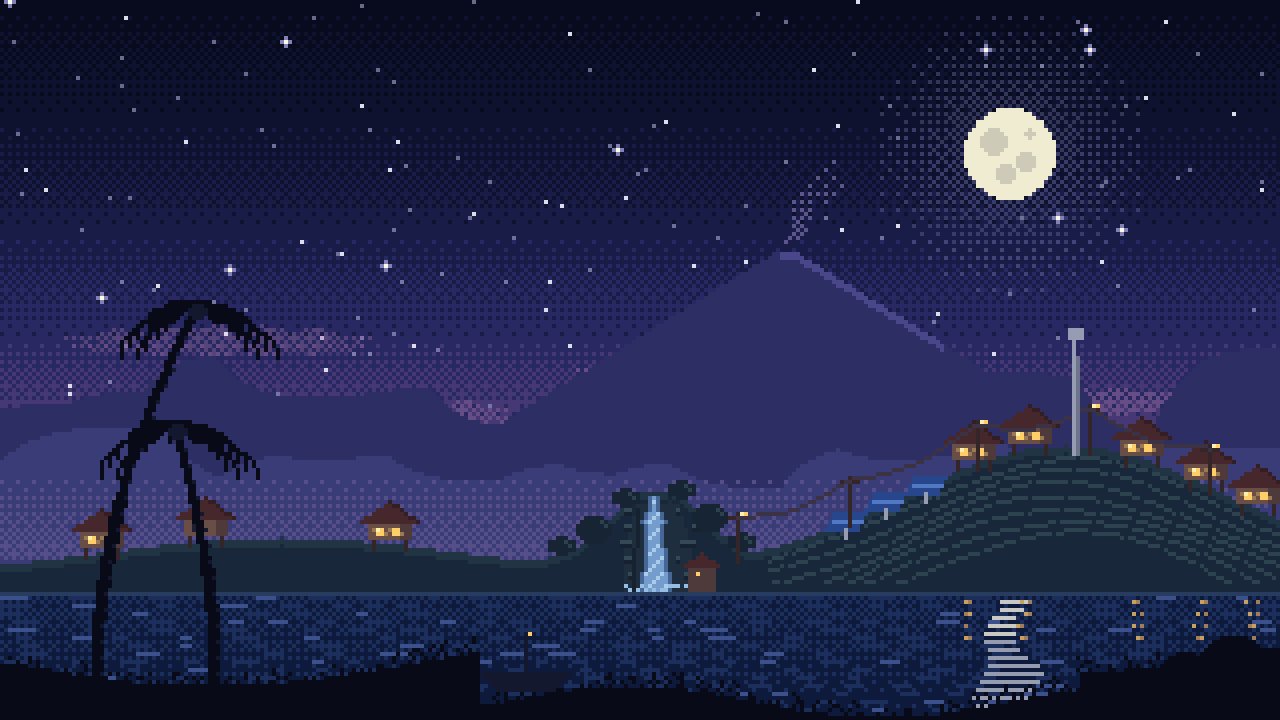
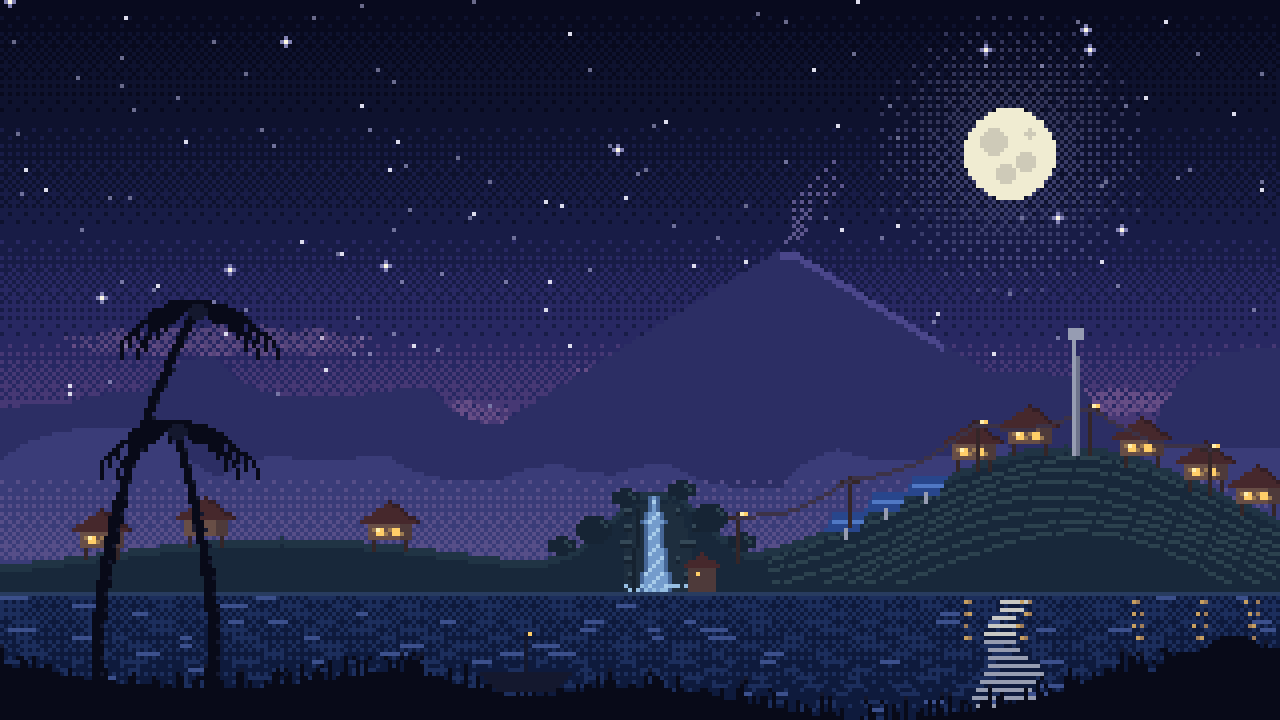
Bulan Lemmbut

Changed region(s): [[0.4375, 0.8861, 0.9375, 1.0], [0.0, 0.8861, 0.375, 0.9778], [0.375, 0.9472, 0.4062, 0.9778]]

diff --git a/tools/make_title_bg.py b/tools/make_title_bg.py
@@ -381,18 +381,37 @@ def palm(im, d, x, base, h, lean, sway=0.0, flutter=0.0):
     d.ellipse([cx - 2, cy - 1, cx + 2, cy + 2], fill=NEAR2)
 
 
+def smooth(a, b, t):
+    t = max(0.0, min(1.0, t))
+    t = t * t * (3 - 2 * t)
+    return a + (b - a) * t
+
+
+def ground_y(x):
+    """Tanah depan: gundukan kiri (pohon kelapa) melandai halus ke tepi danau, naik lagi di kanan."""
+    left = 166 + 6 * math.sin(x * 0.03)
+    shore = 176 - 4 * math.sin(x * 0.05)
+    right = 166 + (320 - x) * 0.05
+    y = smooth(left, shore, (x - 92) / 46.0)
+    return smooth(y, right, (x - 258) / 24.0)
+
+
 def near_layer(bake_palms=True):
     R.seed(303)
     im, d = new()
     # Tanah depan di kiri dan kanan bawah, dengan rumput.
     for x in range(W):
-        left = 166 + 6 * math.sin(x * 0.03)
-        y0 = int(left if x < 120 else (176 - 4 * math.sin(x * 0.05) if x < 270 else 166 + (320 - x) * 0.05))
+        y0 = int(round(ground_y(x)))
         for y in range(y0, H):
             px(im, x, y, NEAR)
-        if x % 3 == 0:
-            for y in range(y0 - R.randint(1, 4), y0):
-                px(im, x + R.randint(-1, 1), y, NEAR)
+        # Rumput: helai pendek-panjang bervariasi, sedikit condong, tidak berjajar kaku.
+        if R.random() < 0.55:
+            h = R.choice((1, 2, 2, 3, 3, 4, 5))
+            lean = R.choice((-1, 0, 0, 1))
+            for k in range(h):
+                px(im, x + (lean if k >= h - 1 and h > 2 else 0), y0 - 1 - k, NEAR)
+            if h >= 4 and R.random() < 0.4:
+                px(im, x + lean, y0 - 1 - h, NEAR2)  # ujung helai terkena cahaya bulan
     if bake_palms:
         palm(im, d, 24, 172, 96, 0.9)
         palm(im, d, 54, 172, 66, -0.5)
